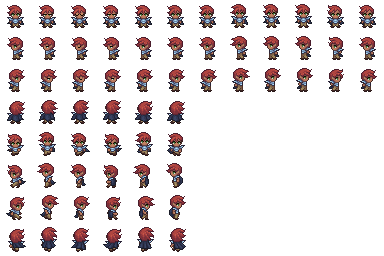
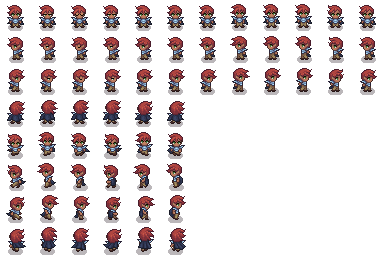
New Sprites with shadows, match dimensions on new menus

diff --git a/src/scene/Scene.cpp b/src/scene/Scene.cpp
@@ -35,7 +35,7 @@ void Scene::initMainMenu(int windowWidth, int windowHeight) {
     menu.addComponent<Transform>(Vector2D(0, 0), 0.0f, 1.0f);
 
     SDL_Texture *texture = TextureManager::load("../asset/menu.png");
-    SDL_FRect menuSrc{0, 0, (float) 1200, (float) 896};
+    SDL_FRect menuSrc{0, 0, (float) 2400, (float) 1792};
     SDL_FRect menuDst{0, 0, (float) windowWidth, (float) windowHeight};
     menu.addComponent<Sprite>(texture, menuSrc, menuDst);
 
@@ -49,7 +49,7 @@ void Scene::initLose(int windowWidth, int windowHeight) {
     auto &screen(world.createEntity());
     screen.addComponent<Transform>(Vector2D(0, 0), 0.0f, 1.0f);
     SDL_Texture *texture = TextureManager::load("../asset/Lose.png");
-    SDL_FRect menuSrc{0, 0, (float) 2400, (float) 1792};
+    SDL_FRect menuSrc{0, 0, (float) 4800, (float) 3584};
     SDL_FRect menuDst{0, 0, (float) windowWidth, (float) windowHeight};
     screen.addComponent<Sprite>(texture, menuSrc, menuDst);
 }
@@ -60,7 +60,7 @@ void Scene::initWin(int windowWidth, int windowHeight) {
     auto &screen(world.createEntity());
     screen.addComponent<Transform>(Vector2D(0, 0), 0.0f, 1.0f);
     SDL_Texture *texture = TextureManager::load("../asset/Win.png");
-    SDL_FRect menuSrc{0, 0, (float) 1200, (float) 896};
+    SDL_FRect menuSrc{0, 0, (float) 2400, (float) 1792};
     SDL_FRect menuDst{0, 0, (float) windowWidth, (float) windowHeight};
     screen.addComponent<Sprite>(texture, menuSrc, menuDst);
 }
